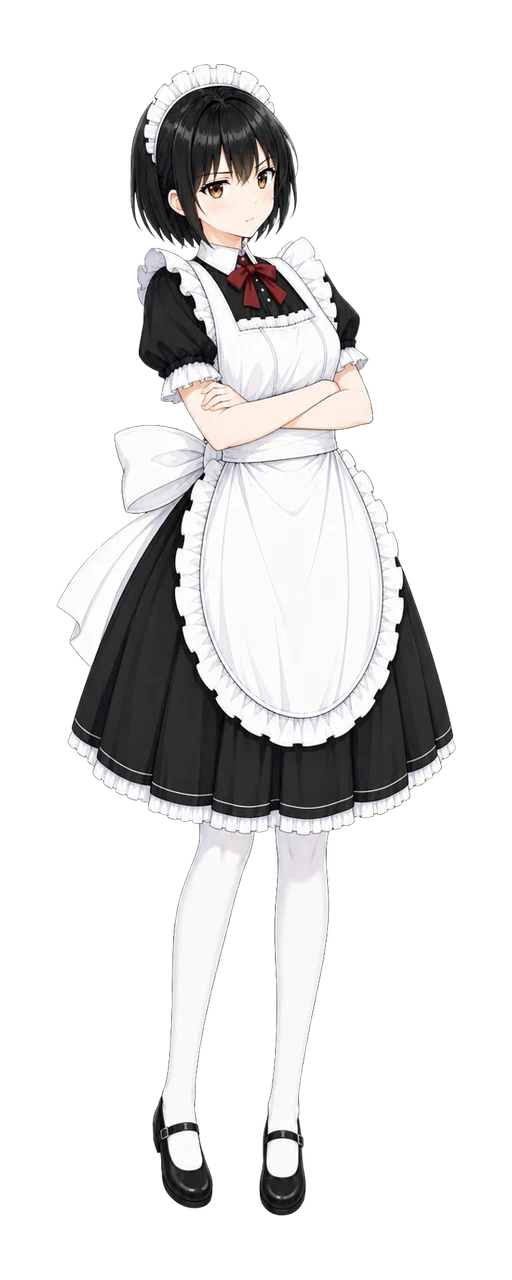
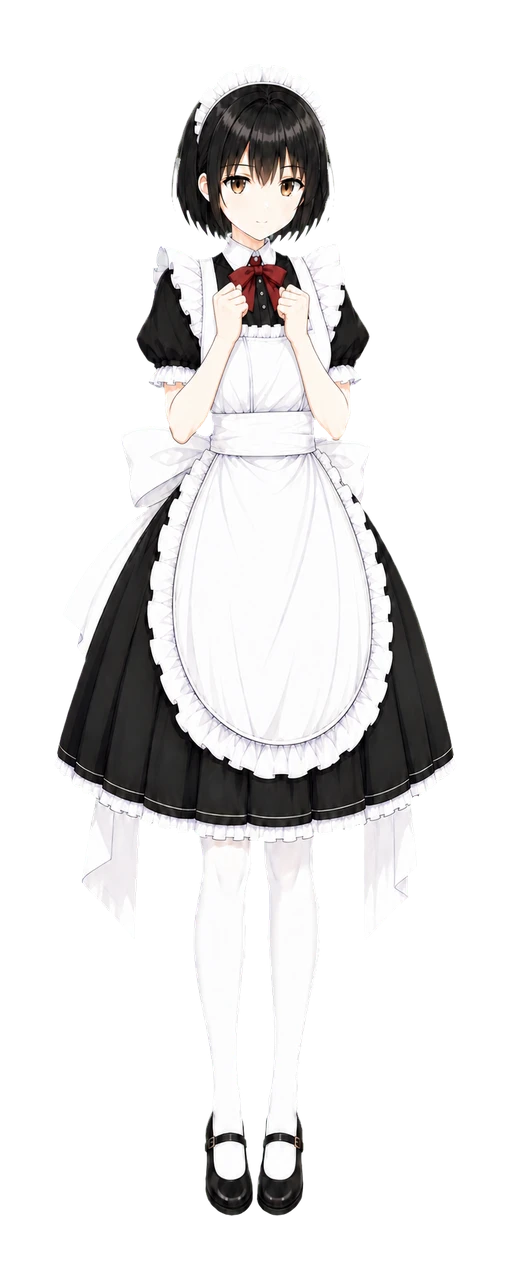
feat(cafe): complete Kotone expression artwork

diff --git a/apps/desktop/src/galgame/SpriteLayer.tsx b/apps/desktop/src/galgame/SpriteLayer.tsx
@@ -1,46 +1,41 @@
+import { EXPRESSIONS } from '@/agent/expressions'
 import type { Expression } from './types'
 import { Backdrop } from './Backdrop'
-import neutral from '../assets/kotone-neutral.webp'
-import happy from '../assets/kotone-happy.webp'
-import curious from '../assets/kotone-curious.webp'
-import thinking from '../assets/kotone-thinking.webp'
-import focused from '../assets/kotone-focused.webp'
-import proud from '../assets/kotone-proud.webp'
-import embarrassed from '../assets/kotone-embarrassed.webp'
-import frustrated from '../assets/kotone-frustrated.webp'
-import confused from '../assets/kotone-confused.webp'
-import surprised from '../assets/kotone-surprised.webp'
-import sad from '../assets/kotone-sad.webp'
-import flirty from '../assets/kotone-flirty.webp'
-import horny from '../assets/kotone-horny.webp'
+
+export type SpriteSources = Partial<Record<Expression, string>>
+
+const spriteModules = import.meta.glob('../assets/kotone-*.webp', {
+  eager: true,
+  import: 'default',
+  query: '?url',
+}) as Record<string, string>
 
 /**
- * The faces she has been drawn wearing. Not every expression in the table is
- * in here: the artwork is drawn one at a time, and a character of her own
- * brings however many she has — so a face with no picture behind it is normal
- * rather than a mistake.
+ * The faces she has been drawn wearing. The partial record is intentional: if
+ * the mood table grows ahead of the artwork again, an undrawn face can still
+ * fall back to neutral instead of breaking the scene.
  */
-const SPRITE: Partial<Record<Expression, string>> = {
-  neutral,
-  happy,
-  curious,
-  thinking,
-  focused,
-  proud,
-  embarrassed,
-  frustrated,
-  confused,
-  surprised,
-  sad,
-  flirty,
-  horny,
+const SPRITE = Object.fromEntries(
+  EXPRESSIONS.flatMap((expression) => {
+    const source = spriteModules[`../assets/kotone-${expression}.webp`]
+    return source ? [[expression, source]] : []
+  }),
+) as SpriteSources
+
+const neutral = SPRITE.neutral
+if (!neutral) throw new Error('Missing bundled neutral sprite')
+
+/** Resolve through a runtime map first so uploaded sprites can be blob: URLs,
+ * custom-protocol URLs, or persisted file URLs without becoming build imports. */
+export function spriteFor(expression: Expression, custom: SpriteSources = {}) {
+  return custom[expression] ?? SPRITE[expression] ?? neutral
 }
 
 /** Whether she has actually been drawn wearing this face. A face with no
  * artwork leaves her standing neutral, and the kaomoji stands in for it beside
  * her name (see GalgameClient). */
-export function hasArtwork(expression: Expression) {
-  return expression in SPRITE
+export function hasArtwork(expression: Expression, custom: SpriteSources = {}) {
+  return Boolean(custom[expression] ?? SPRITE[expression])
 }
 
 /**
@@ -48,7 +43,13 @@ export function hasArtwork(expression: Expression) {
  * with the dialogue box over her lower body. Nothing that opens on top of the
  * scene moves her — the panels are on top of it, not instead of it.
  */
-export function SpriteLayer({ expression }: { expression: Expression }) {
+export function SpriteLayer({
+  expression,
+  sprites,
+}: {
+  expression: Expression
+  sprites?: SpriteSources
+}) {
   return (
     // The window ends where it ends, and with nothing painted behind her that
     // edge used to cut her off mid-skirt. This fades her out above it, so she
@@ -66,7 +67,7 @@ export function SpriteLayer({ expression }: { expression: Expression }) {
             the alpha under the pointer decides (see useClickThrough), which is
             also what makes her a handle you can only grab by the sleeve. */}
         <img
-          src={SPRITE[expression] ?? neutral}
+          src={spriteFor(expression, sprites)}
           alt="ことね"
           draggable={false}
           data-art

diff --git a/apps/desktop/src/galgame/SpriteLayer.test.ts b/apps/desktop/src/galgame/SpriteLayer.test.ts
@@ -1,16 +1,16 @@
 import { describe, expect, it } from 'vitest'
-import type { Expression } from '@/agent/expressions'
-import { hasArtwork } from './SpriteLayer'
+import { EXPRESSIONS } from '@/agent/expressions'
+import { hasArtwork, spriteFor } from './SpriteLayer'
 
 describe('hasArtwork', () => {
-  it('knows the faces she has been drawn wearing', () => {
-    expect(hasArtwork('neutral')).toBe(true)
-    expect(hasArtwork('horny')).toBe(true)
+  it('has artwork for every face in the mood table', () => {
+    for (const expression of EXPRESSIONS) expect(hasArtwork(expression)).toBe(true)
   })
 
-  // The artwork is drawn one at a time, so the table runs ahead of it — and a
-  // character of her own brings however many faces she has.
-  it('is false for a face in the table that nobody has drawn yet', () => {
-    expect(hasArtwork('pouty' as Expression)).toBe(false)
+  it('lets runtime sources override bundled artwork', () => {
+    const uploaded = 'blob:https://cafe.test/kotone-happy'
+
+    expect(spriteFor('happy', { happy: uploaded })).toBe(uploaded)
+    expect(hasArtwork('happy', { happy: uploaded })).toBe(true)
   })
 })
